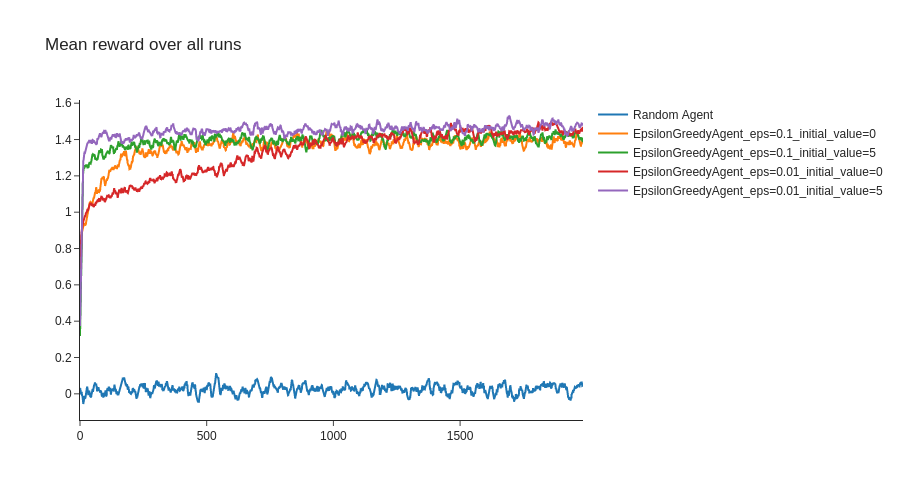
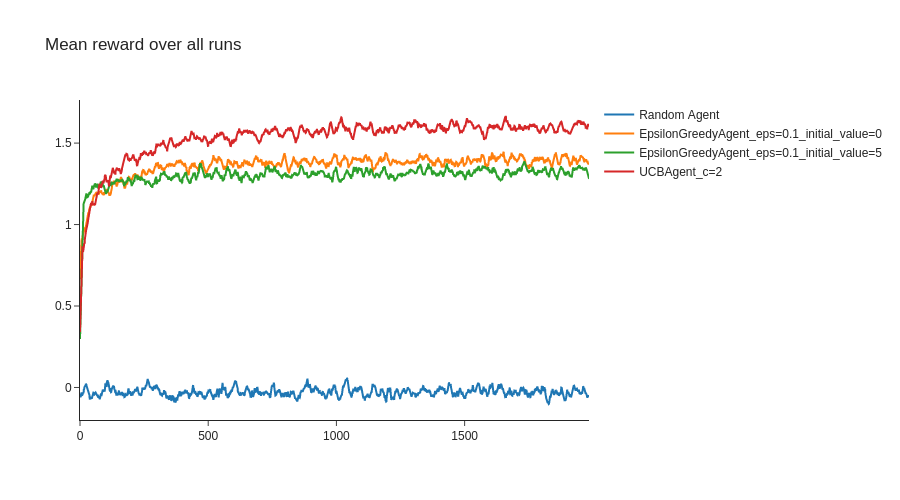
Implemented upper confidence bound agent

diff --git a/multi_armed_bandit/main.py b/multi_armed_bandit/main.py
@@ -4,7 +4,7 @@ import gymnasium as gym
 from tqdm import tqdm
 from utils import plot_rewards
 from multi_armed_bandit_env import MultiArmedBandit
-from agent import Agent, RandomAgent, EpsilonGreedyAgent
+from agent import Agent, RandomAgent, EpsilonGreedyAgent, UCBAgent
 
 def run_episode(env: gym.Env, agent: Agent, seed: int):
     '''
@@ -79,14 +79,20 @@ if __name__ == "__main__":
     
     # print(f"Expected average reward: 0.0, actual: {rewards.mean():.6f}")
     # assert np.isclose(rewards.mean(), 0, atol=0.05), "Random agent should be getting mean arm reward, which is zero."
-    for epsilon in [0.1, 0.01]:
-        for initial_value in [0, 5]:
-            agent = EpsilonGreedyAgent(num_arms, 0, epsilon, initial_value)
-            rewards, corrects = run_agent(env, agent)
-            all_rewards.append(rewards)
-            names.append(str(agent))
-            print(agent)
-            print(f" -> Frequency of correct arm: {corrects.mean():.4f}")
-            print(f" -> Average reward: {rewards.mean():.4f}")
+    epsilon = 0.1
+    for initial_value in [0, 5]:
+        agent = EpsilonGreedyAgent(num_arms, 0, epsilon, initial_value)
+        rewards, corrects = run_agent(env, agent)
+        all_rewards.append(rewards)
+        names.append(str(agent))
+        print(agent)
+        print(f" -> Frequency of correct arm: {corrects.mean():.4f}")
+        print(f" -> Average reward: {rewards.mean():.4f}")
 
+    # Upper Confidence Bound Selection Agent
+    UCBAgent = UCBAgent(num_arms, 0, 2)
+    UCB_rewards, UCB_corrects = run_agent(env, UCBAgent)
+    all_rewards.append(UCB_rewards)
+    names.append(str(UCBAgent))
+    
     plot_rewards(all_rewards, names, "assets/agent_rewards.png")

diff --git a/multi_armed_bandit/agent.py b/multi_armed_bandit/agent.py
@@ -63,7 +63,32 @@ class EpsilonGreedyAgent(Agent):
         return f"EpsilonGreedyAgent_eps={self.epsilon}_initial_value={self.initial_value})"
 
 
+class UCBAgent(Agent):
+    """Agent that chooses actions according to the Upper Confidence Bound action selection method
+    \(A_t = \text{argmax}_a[Q(a) + c \sqrt{\frac{ln t}{N(a)}}] \)
+    """
+    def __init__(self, num_arms: int, seed: int, c: float) -> None:
+        self.c = c
+        super().__init__(num_arms, seed)
+        
+    def get_action(self, ) -> ActType:
+        action = int(np.argmax(self.Q + self.c * np.sqrt(np.log2(self.t) / (self.N + 1e-8))))
+        return action
+    
+    def observe(self, action: ActType, reward: float, info: dict) -> None:
+        self.t += 1
+        self.N[action] += 1
+        self.Q[action] += (reward - self.Q[action]) / self.N[action]
+        
+    def reset(self, seed: Optional[int] = None) -> None:
+        super().reset(seed)
+        self.t = 1
+        self.Q = np.zeros((self.num_arms))
+        self.N = np.zeros((self.num_arms))
 
+    def __repr__(self, ) -> None:
+        return f"UCBAgent_c={self.c}"
+    
 if __name__ == "__main__":
     agent = RandomAgent(10, 42)
     agent2 = EpsilonGreedyAgent(10, 0, 0.1, 4)
